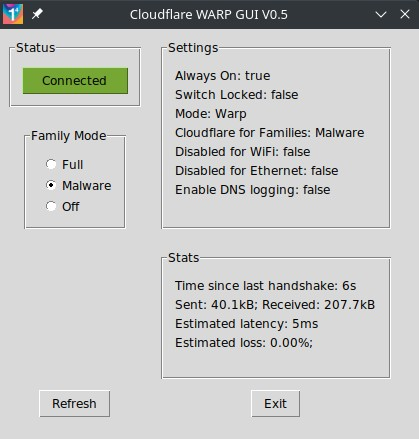
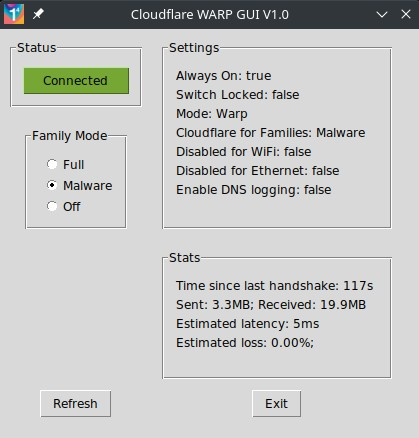
V1.0 stable released, screenshots updated

diff --git a/warp-cli-gui.py b/warp-cli-gui.py
@@ -1,7 +1,7 @@
 """
 Name: warp-cli-gui
 
-Description: Python program that will interact with Linux CLI to check status, and change basic settings, for Cloudflare WARP CLI
+Description: Python GUI program that will interact with Linux CLI to check status, and change basic settings, for Cloudflare WARP CLI
 
 Prequisites:
 - Linux OS (tested on Manjaro Linux)
@@ -30,8 +30,8 @@ Versions:
 - V0.2 Connect/Disconnect button working, Top frames and status button better aligned, connect status not reliable yet though
 - V0.3 Connect/Disconnect button status is finally stable through IF condition testing more rigorously for alternatives being returned from status command
 - V0.4 30 Dec 2021 Fixed size window, with fixed size frames and spacing
-- V0.5 31 Dec 2021 Cloudflare Warp logo added, connect status button colours changed, family mode radio button defaults to existing setting, stats auto refresh every 2 secs after Refresh button pressed
-
+- V0.5 31 Dec 2021 Cloudflare Warp logo added, connect status button colours changed (thanks to my wife Chantel for helping with this), family mode radio button defaults to existing setting, stats auto refresh every 2 secs after Refresh button pressed
+- V1.0 31 Dec 2021 First stable version with just README file updated
 
 TODO: - "Always stay connected" option setting to be added
 TODO: - Option to switch WARP modes
@@ -53,7 +53,7 @@ import subprocess
 
 # Set global variable to test during execution if connected
 connected = True
-version = "V0.5"
+version = "V1.0"
 
 
 # set root window called root

diff --git a/README.md b/README.md
@@ -8,23 +8,23 @@
 [![Short Video](https://img.youtube.com/vi/MtlUrAmhWzI/0.jpg)](https://www.youtube.com/watch?v=MtlUrAmhWzI)
 
 ## Description
-Python program that will interact with Linux CLI to check status, and change basic settings, for Cloudflare WARP CLI.</p>
+Python GUI program that will interact with Linux CLI to check status, and change basic settings, for Cloudflare WARP CLI.</p>
 
 ## Requirements and Execution
-- LinuMtlUrAmhWzIx OS (tested on Manjaro Linux)
+- Linux OS (tested on Manjaro Linux)
 - Python 3 with pillow library
 - warp-svc running as daemon (should be installed with warp-cli)
 - warp-cli for Linux installed (instructions at https://developers.cloudflare.com/warp-client/get-started/linux)
-- Copy these source files into a single folder, and execute with 'python warp-cli-gui.py'
+- Copy these source files into a single folder, and execute with 'python warp-cli-gui.py'. For ease of use you can add this command, and the working directory, to a new menu item on Linux.
 
 ## License
 This software is available under the GPL-3.0. You should have received a copy of the GNU General Public License along with this program.  If not, see <http://www.gnu.org/licenses/> for more info.
 
 ## Functionality
-- Status button toggles connect or disconnect from WARP
+- Status button toggles connect / disconnect from WARP
 - Family mode can be toggled between Full, Malware, Off
 - Current WARP settings displayed, and refreshed if changed (or press refresh button)
-- Current WARP stats displayed and refreshed if refresh button pressed (manual refresh only right now)
+- Current WARP stats displayed and will refresh automatically every 2 seconds after the refresh button has been pressed
 
 ## Todo's on the Road Map
 - "Always stay connected" option setting
@@ -41,4 +41,5 @@ See my video about the initial creation of this app at https://youtu.be/hhPhiV0o
 - V0.2 Connect/Disconnect button working, Top frames and status button better aligned, connect status not reliable yet though
 - V0.3 Connect/Disconnect button status is finally stable through IF condition testing more rigorously for alternatives being returned from status command
 - V0.4 30 Dec 2021 Fixed size window, with fixed size frames and spacing
-- V0.5 31 Dec 2021 Cloudflare Warp logo added, connect status button colours changed, family mode radio button defaults to existing setting, stats auto refresh every 2 secs after Refresh button pressed
+- V0.5 31 Dec 2021 Cloudflare Warp logo added, connect status button colours changed (thanks to my wife Chantel for helping with this), family mode radio button defaults to existing setting, stats auto refresh every 2 secs after Refresh button pressed
+- V1.0 31 Dec 2021 First stable version with just README file updated
